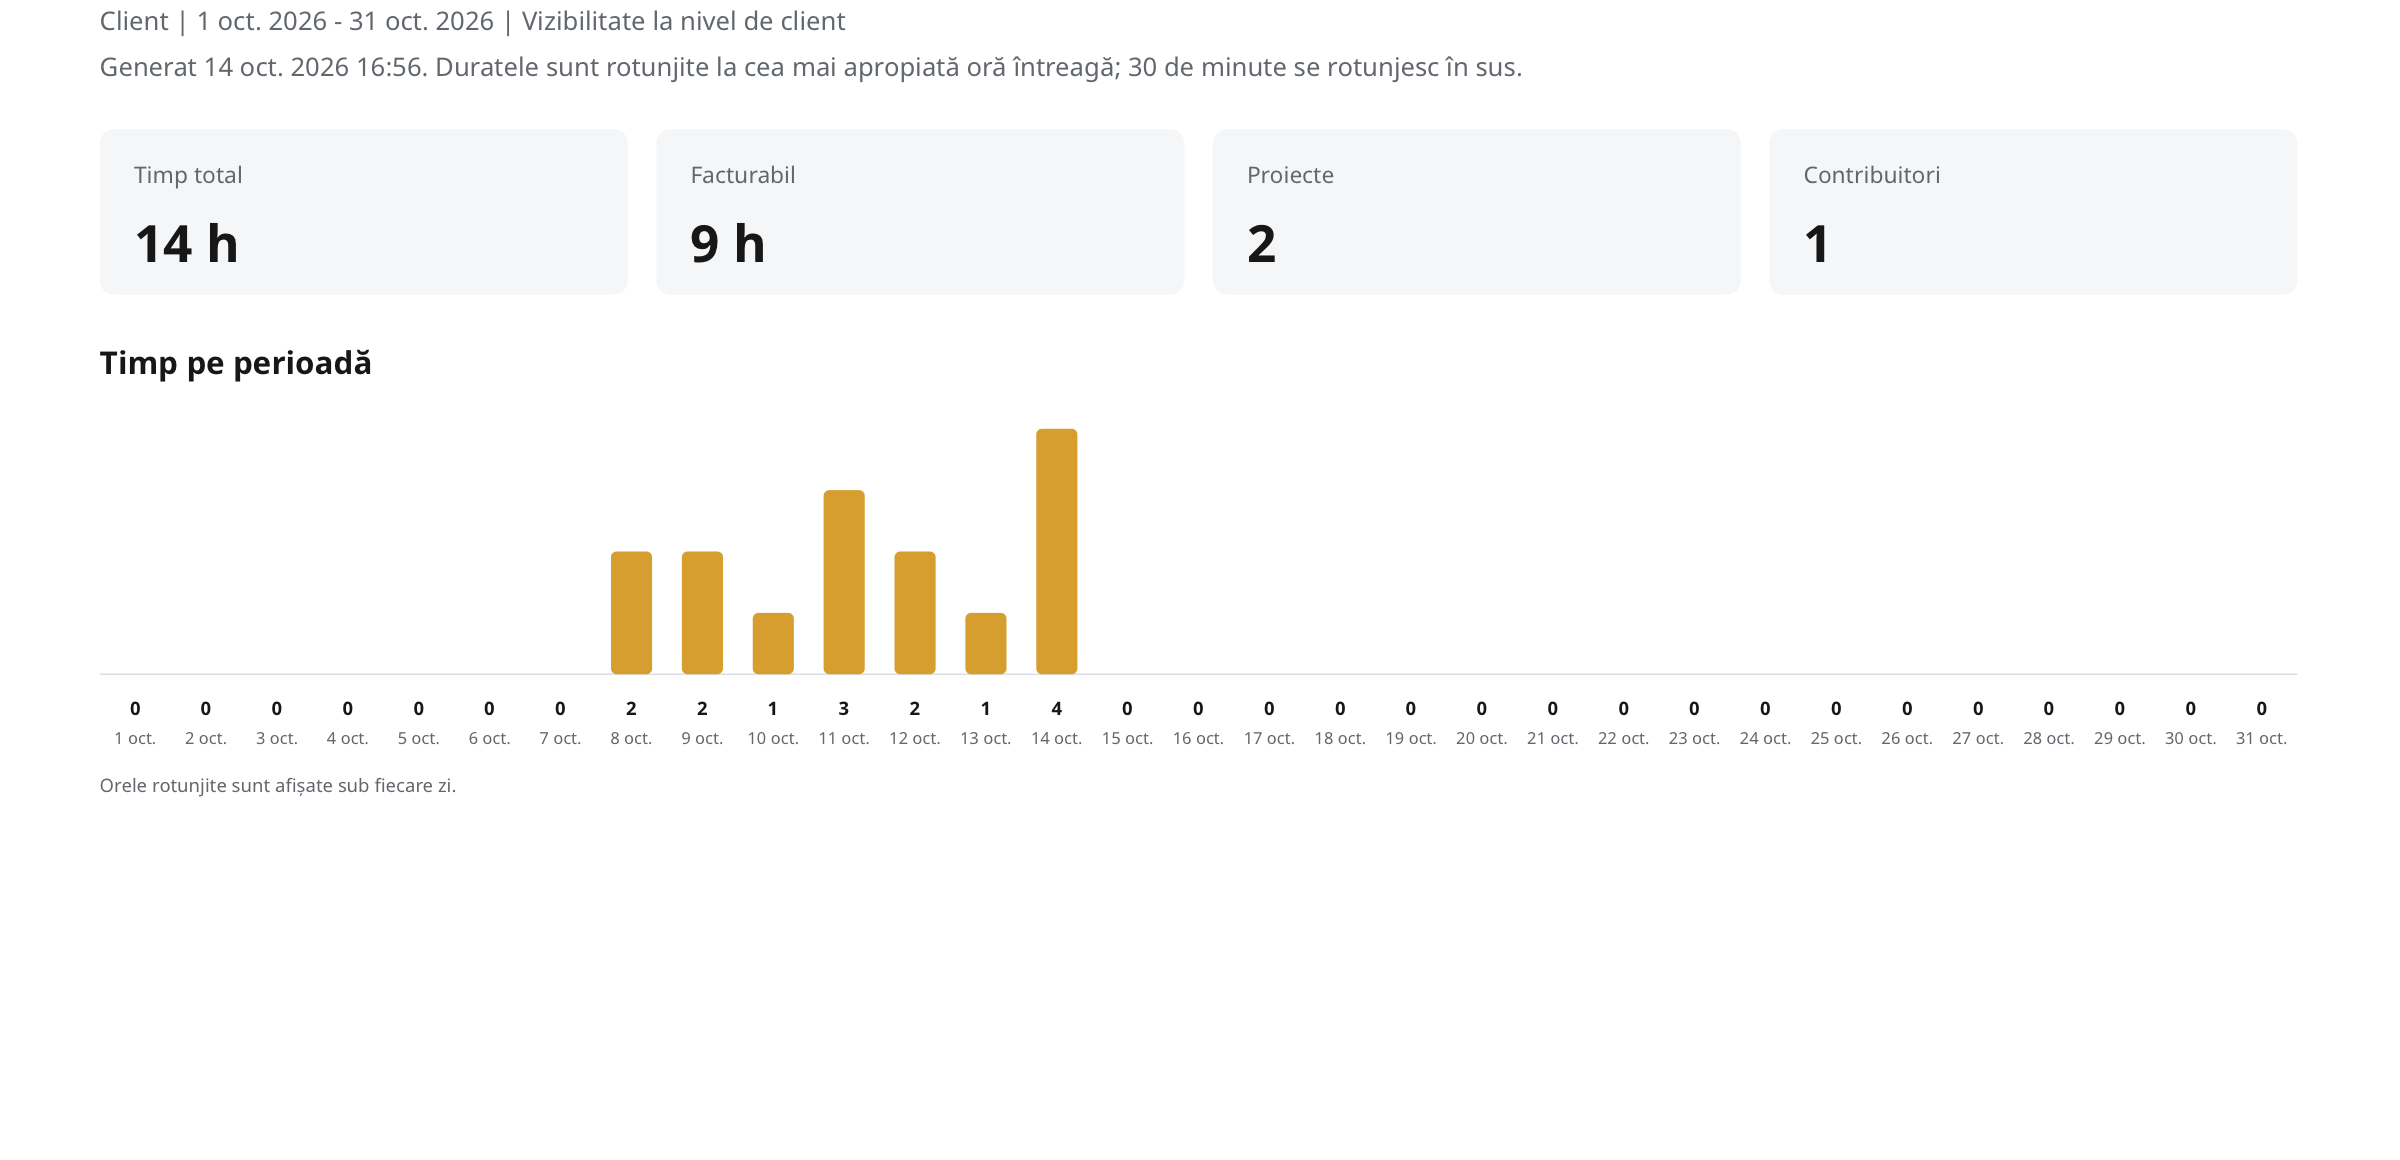
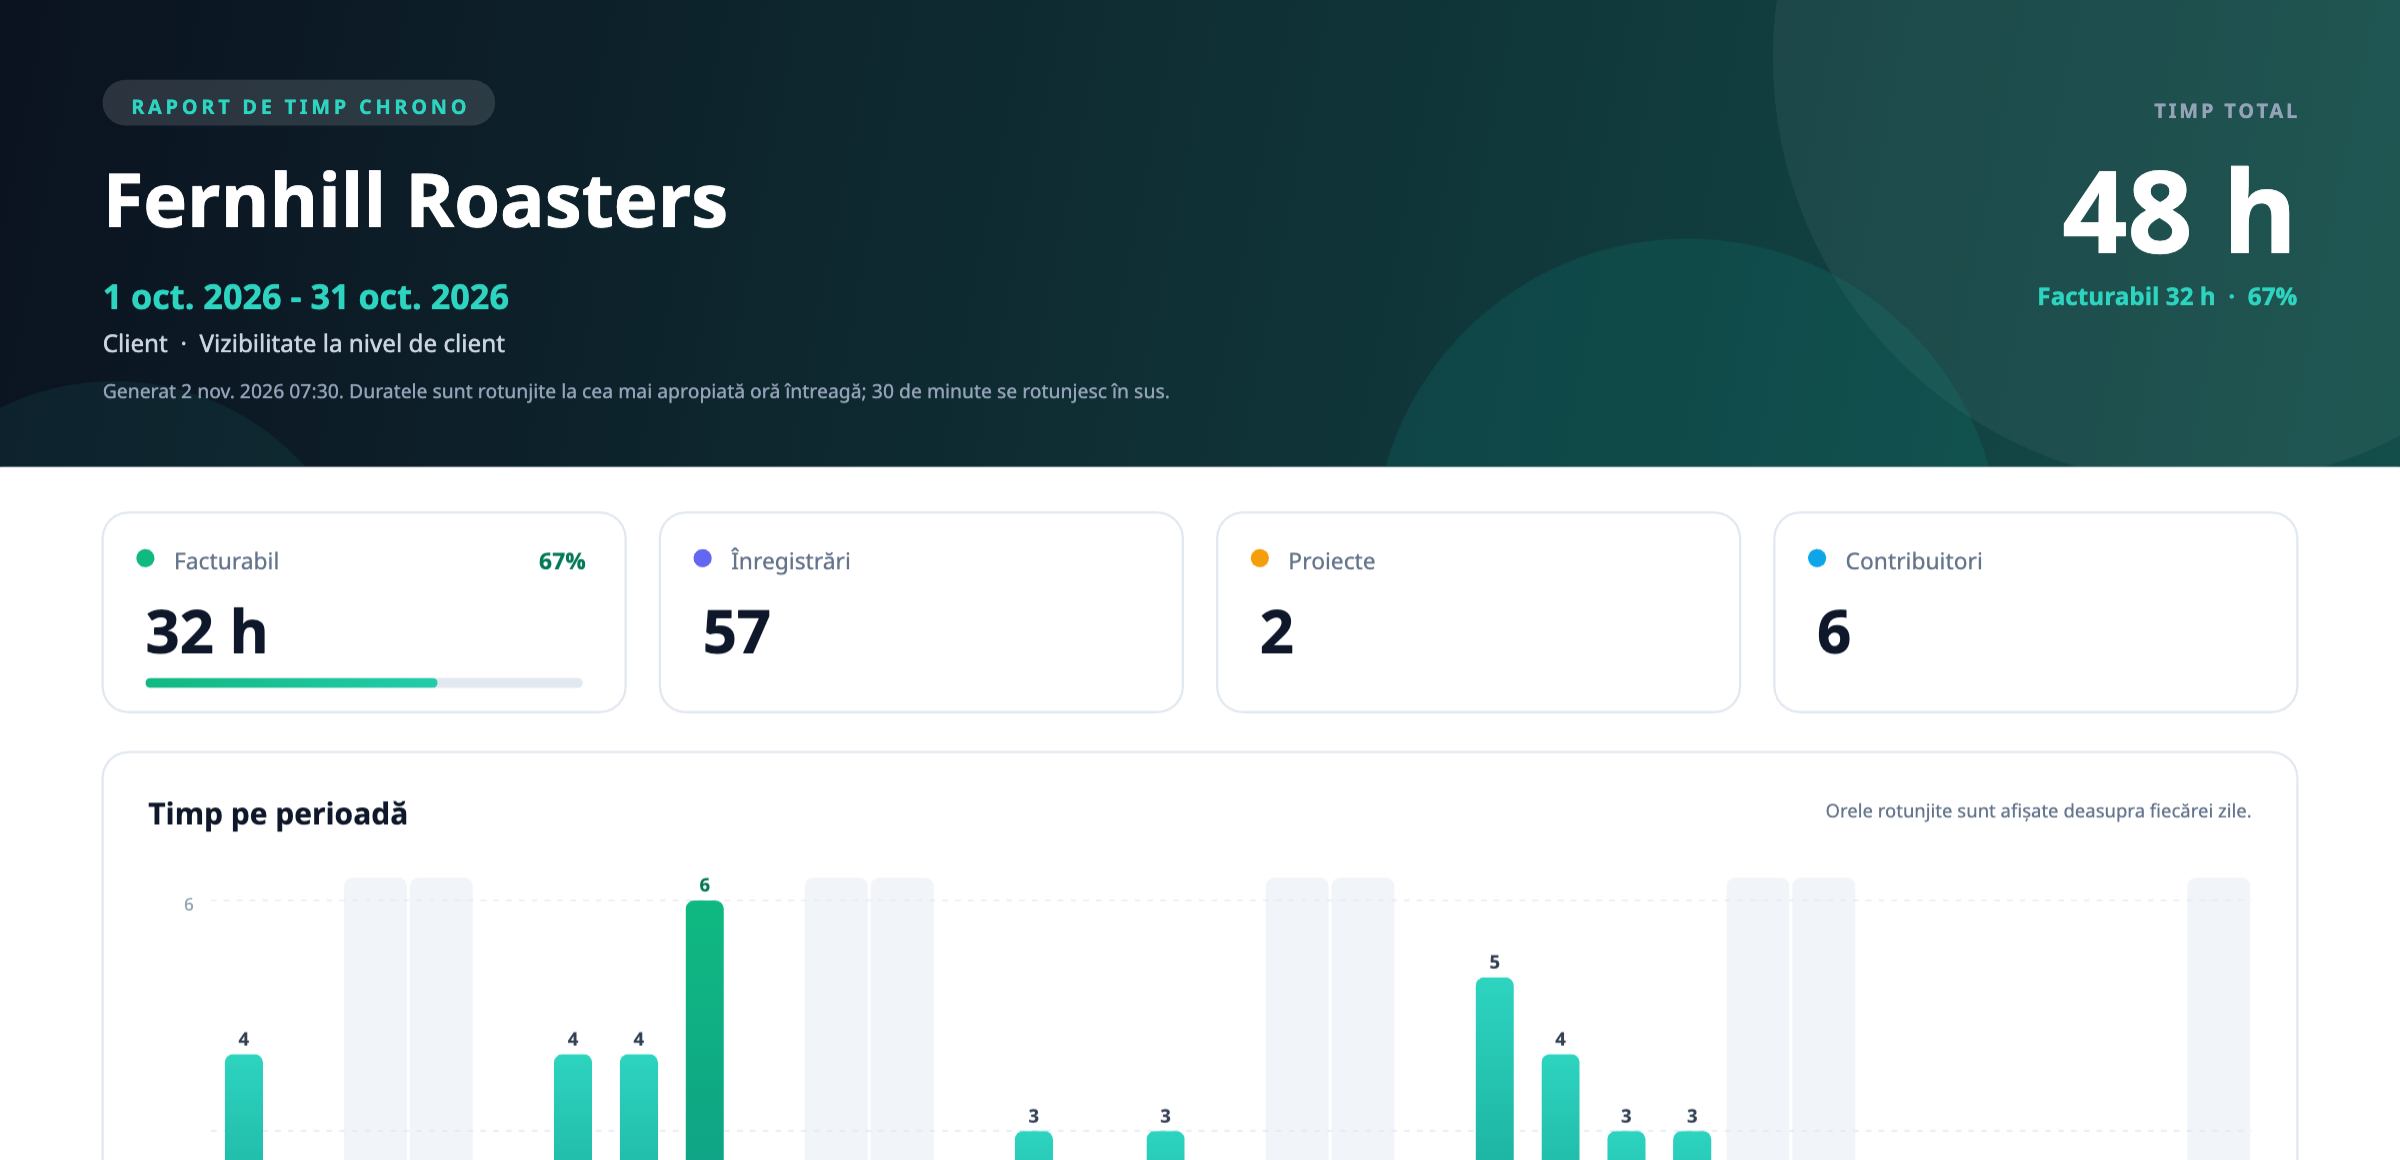
docs: rewrite the README as a friendlier project showcase
Adds a logo header and a drawn illustration of how clients, projects, client
tasks, time and reports fit together, replaces the stale report screenshots
with the redesigned Time tab and PDF, and moves the technical details into a
collapsed section.

diff --git a/README.md b/README.md
@@ -1,28 +1,70 @@
-# Chrono
+<p align="center">
+  <img src="docs/images/logo.png" alt="Chrono logo" width="96">
+</p>
 
-Chrono is a self-hosted workspace for agencies and small teams that bill by the
-hour. Keep your clients, projects, and tasks in one place, track the time spent
-on them, and send clients a clear report when it's time to invoice.
+<h1 align="center">Chrono</h1>
 
-It runs on your own server, so your data stays with you. It's free to host
-yourself.
+<p align="center">
+  <b>Track the time. Keep your clients happy.</b><br>
+  A self-hosted workspace for agencies and small teams that bill by the hour.
+</p>
 
-![Chrono's time report: hours per day, by time-entry type, and by project](docs/images/time-report.png)
+<p align="center">
+  <a href="#install-in-three-steps">Install</a> ·
+  <a href="#how-chrono-works">How it works</a> ·
+  <a href="#what-you-get">What you get</a> ·
+  <a href="#a-quick-look">Screenshots</a> ·
+  <a href="#updates-and-backups">Updates</a>
+</p>
 
-## What you can do with Chrono
+<p align="center">
+  <img src="docs/images/time-report.png" alt="Chrono's Time tab: total time, billable share, hours per day, and a breakdown by time-entry type" width="860">
+</p>
 
-- **Organize work by client.** Each client has projects, and each project has
-  issues (tasks) with assignees, labels, comments, and file attachments.
-- **Track time.** Start a timer on any issue or add time by hand, with
-  billable and non-billable entries and your own time-entry types.
-- **Report and export.** Filter by project, person, and entry type to see where
-  the hours went, then export a PDF report for a client in English or Romanian.
-- **Work with your team and your clients.** Invite teammates as owners, admins,
-  or members, or give clients limited guest access to only what they should see.
-- **Stay in the loop.** An inbox shows assignments, status changes, and
-  comments addressed to you.
-- **Move fast.** Chrono is built to be used from the keyboard, with a light
-  and dark theme and a compact layout.
+## Why Chrono
+
+You keep your clients, projects, and tasks in one place, track the time spent
+on them, and send clients a clear report when it's time to invoice. No
+spreadsheets, no juggling three different tools.
+
+- 🏠 **It's yours.** Chrono runs on your own server, so your data stays with
+  you.
+- 🆓 **It's free to host yourself.** No per-seat pricing.
+- ⚡ **It's quick.** Made to be used from the keyboard, with a compact layout
+  and a light and dark theme.
+- 📱 **It works on your phone**, too.
+
+## How Chrono works
+
+Everything starts with a **client**. A client has **projects**, and it can also
+hold tasks that don't belong to any project, like a monthly retainer or
+support. Whichever way you organize it, time is tracked on a task, and it adds
+up to the right project and client for you.
+
+<p align="center">
+  <img src="docs/images/how-chrono-works.svg" alt="A client holds projects and its own tasks. Time is tracked on tasks and turns into reports per client or project." width="860">
+</p>
+
+## What you get
+
+<table>
+  <tr>
+    <td width="50%" valign="top"><b>🧩 Clients, projects, and tasks</b><br>Assign people, add labels, comments, and file attachments, and group work by status.</td>
+    <td width="50%" valign="top"><b>⏱ Time tracking</b><br>Start a timer or add time by hand. Mark it billable or not, and sort it with your own entry types.</td>
+  </tr>
+  <tr>
+    <td width="50%" valign="top"><b>📊 Reports you can send</b><br>Every client and project has a Time tab: total hours, billable share, a day-by-day chart, and breakdowns by type, project, and person.</td>
+    <td width="50%" valign="top"><b>📄 A polished PDF</b><br>Export the report for your client, in English or Romanian.</td>
+  </tr>
+  <tr>
+    <td width="50%" valign="top"><b>👥 Your team and your clients</b><br>Invite teammates as owners, admins, or members. Give clients limited guest access to only what they should see.</td>
+    <td width="50%" valign="top"><b>📥 An inbox</b><br>See assignments, status changes, and comments addressed to you.</td>
+  </tr>
+  <tr>
+    <td width="50%" valign="top"><b>🧹 Fix mistakes</b><br>Tracked time by accident? Owners and admins can delete an entry, and it drops out of every report.</td>
+    <td width="50%" valign="top"><b>🔒 Private by design</b><br>Your data lives in a database and file store on your own machine.</td>
+  </tr>
+</table>
 
 ## A quick look
 
@@ -30,11 +72,11 @@ yourself.
 | --- | --- |
 | ![A client's issues grouped by status](docs/images/issues.png) | ![An issue with activity, properties, and time tracking](docs/images/issue-detail.png) |
 
-The PDF report you can send to a client (shown here in Romanian):
+The PDF report you can send to a client (the first page, shown here in Romanian):
 
 ![A Chrono time report exported as a PDF, in Romanian](docs/images/pdf-report-ro.png)
 
-## Install
+## Install in three steps
 
 You need a computer or server that can run [Docker](https://docs.docker.com/get-docker/)
 (Docker Desktop works too). Nothing else needs to be installed.
@@ -96,18 +138,22 @@ works. Restoring is covered in the [operations guide](docs/OPERATIONS.md).
 
 ## Good to know
 
-- Chrono doesn't send email. Sign-in uses an email address and password, and
-  invitation and password-reset links are copied by an admin.
-- Your data lives in two places on your server: a PostgreSQL database and a
-  private file store. Both stay on your machine.
+- Chrono doesn't send email. You sign in with an email address and password,
+  and invitation and password-reset links are copied and shared by an admin.
 - Settings → Storage and Updates (for the installation's administrator) show
   the health of your installation.
 
-## For advanced setups and developers
+<details>
+<summary><b>For developers and advanced setups</b></summary>
 
-- Manual Docker Compose setup, external S3 storage, and recovery steps:
+<br>
+
+- **Under the hood:** one Next.js application and a PostgreSQL database, with
+  uploaded files in a private object store (the built-in one, or your own
+  S3-compatible storage).
+- **Manual Docker Compose setup, external S3 storage, and recovery steps:**
   [docs/OPERATIONS.md](docs/OPERATIONS.md)
-- Running Chrono from source for development:
+- **Run it from source:**
 
   ```sh
   cp .env.example .env   # then replace the placeholder secrets
@@ -127,6 +173,8 @@ More documentation:
 - [Performance](docs/PERFORMANCE.md): measured performance notes
 - [UX](docs/UX.md) and [UI standards](docs/UI_STANDARDS.md): interface conventions
 - [Roadmap](roadmap.md): what has been built so far
+
+</details>
 
 ## License
 
